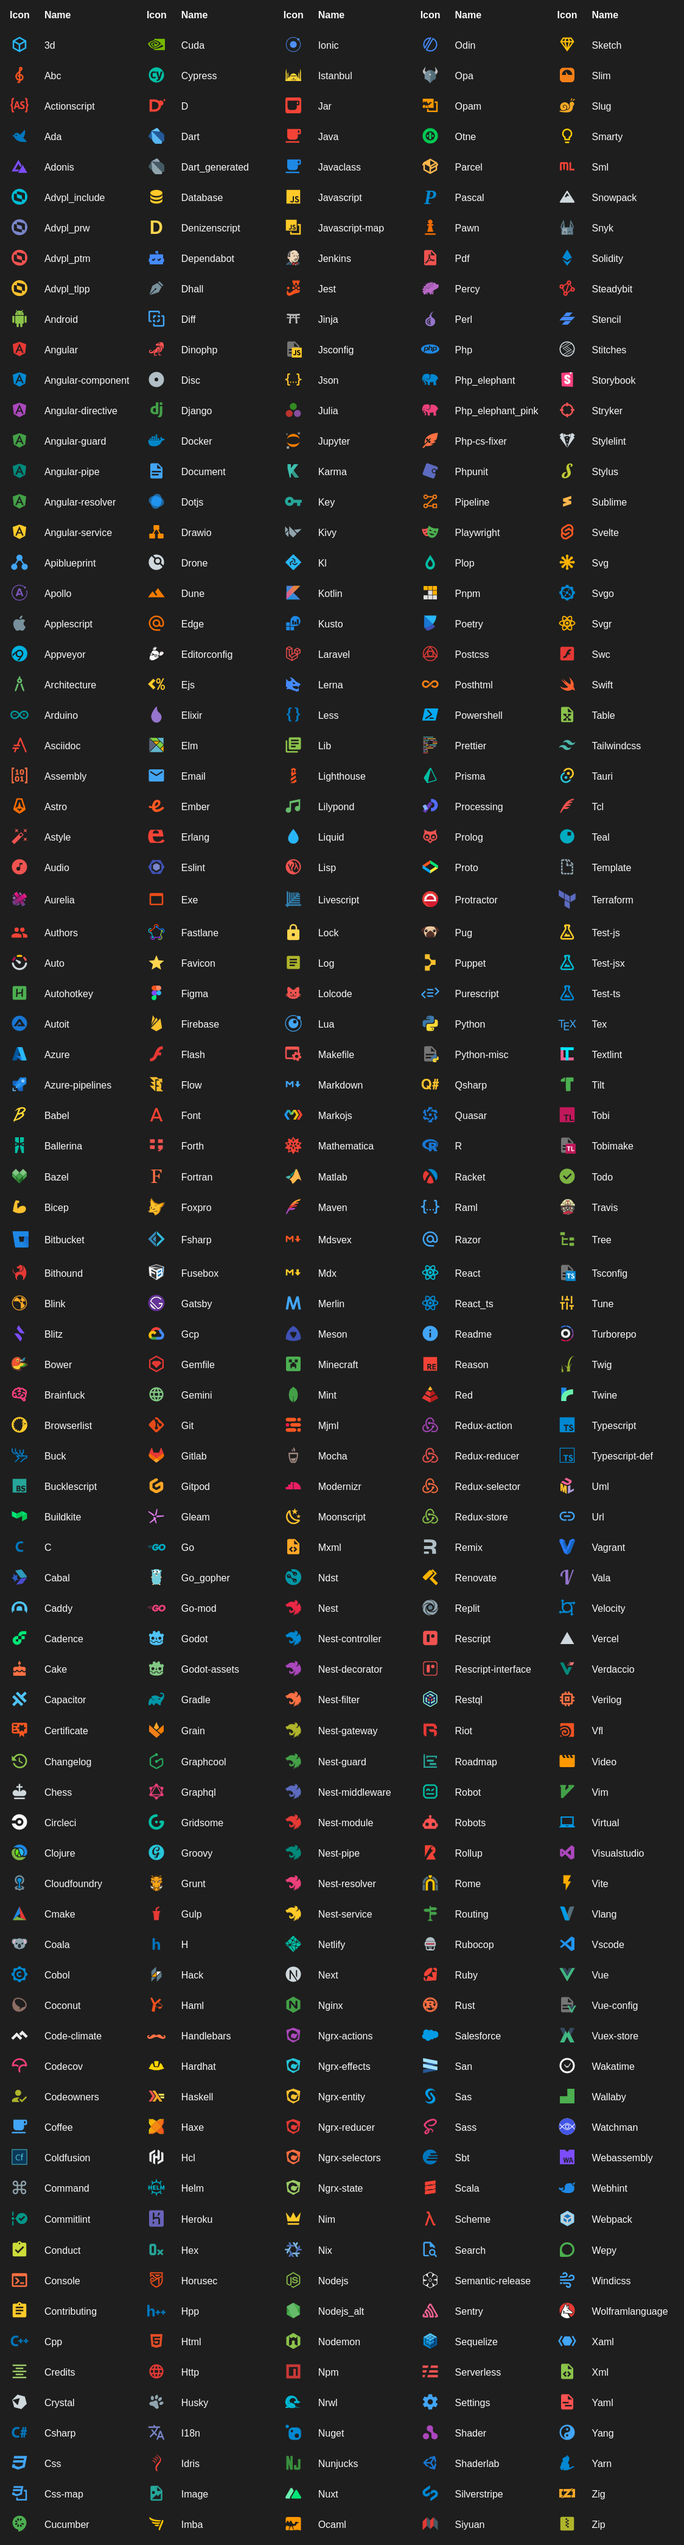
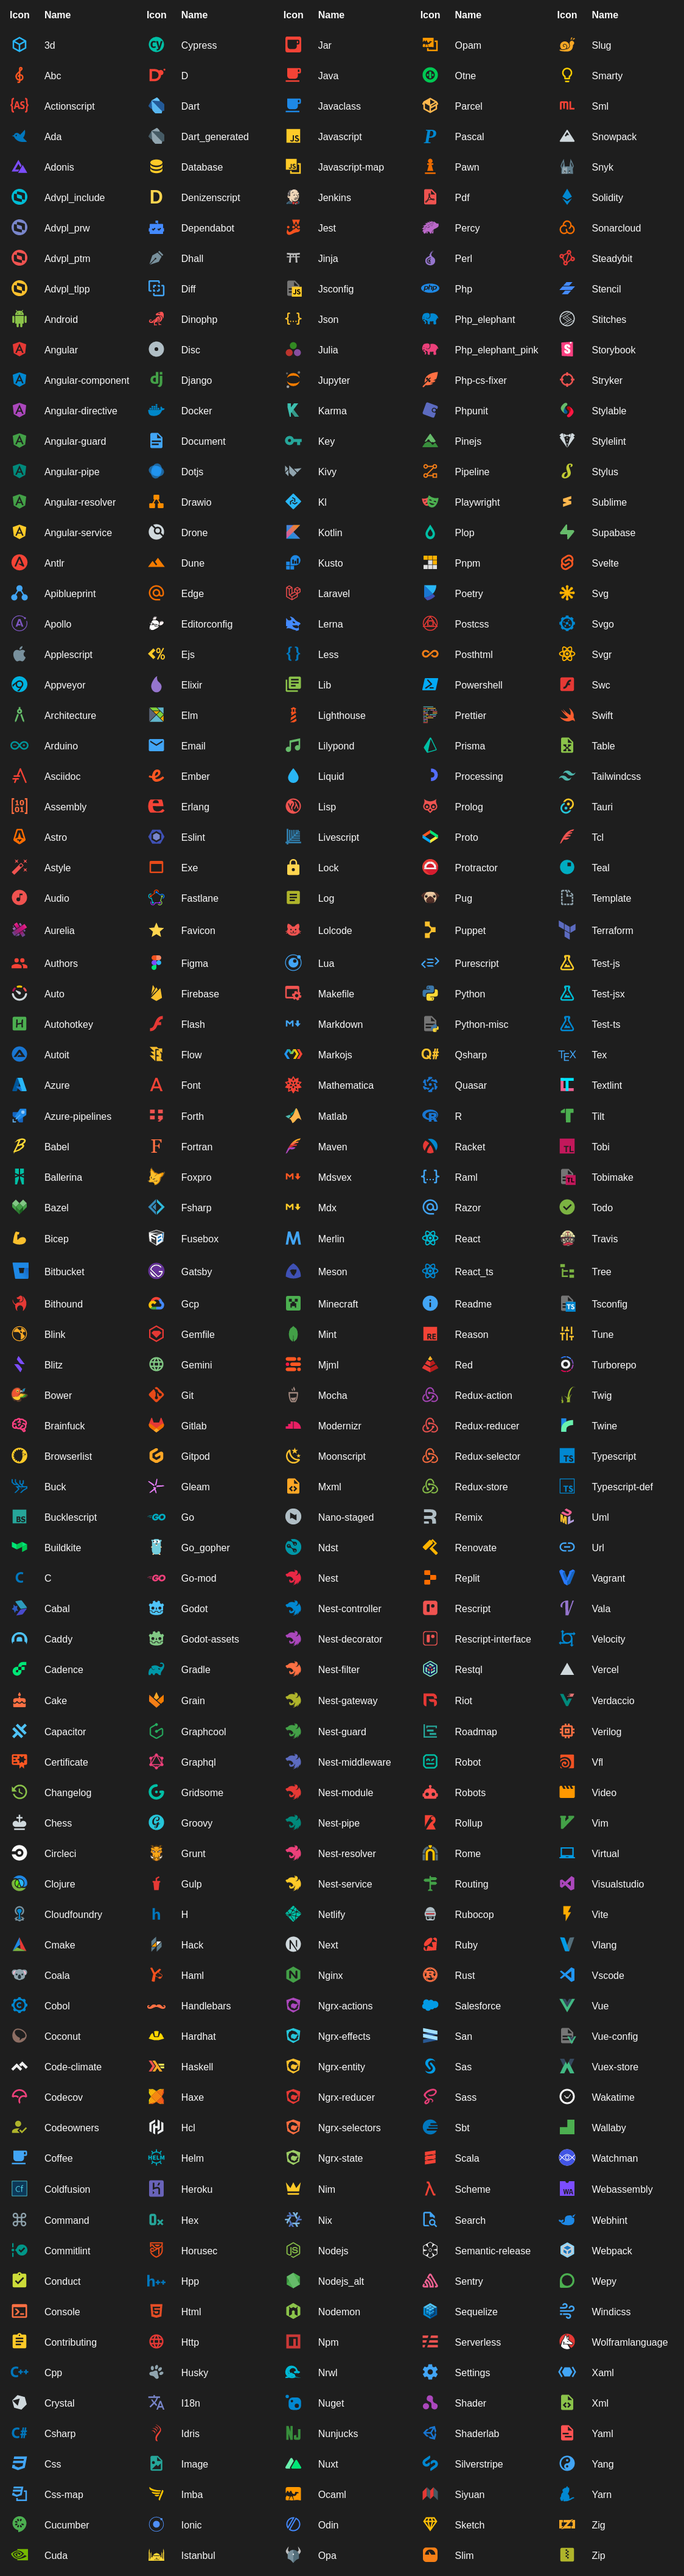
Release 4.22.0

diff --git a/CHANGELOG.md b/CHANGELOG.md
@@ -3,6 +3,40 @@
  All notable changes to this project will be documented in this file. Dates are displayed in UTC.
 
  
+#### [v4.22.0](https://github.com/PKief/vscode-material-icon-theme/compare/v4.21.0...v4.22.0) 
+
+> November 5, 2022 
+
+- Update import in scripts [`66d9e48`](https://github.com/PKief/vscode-material-icon-theme/commit/66d9e48)
+- feat: add support for Sonarcloud [`#1677`](https://github.com/PKief/vscode-material-icon-theme/pull/1677)
+- Update build script [`8b24b74`](https://github.com/PKief/vscode-material-icon-theme/commit/8b24b74)
+- docs: add note to saturation section re: Toggle Grayscale setting [`#1747`](https://github.com/PKief/vscode-material-icon-theme/pull/1747)
+- Change explanation of `languageId` values [`#1753`](https://github.com/PKief/vscode-material-icon-theme/pull/1753)
+- rm unlinked "official icons" list entry [`#1752`](https://github.com/PKief/vscode-material-icon-theme/pull/1752)
+- harmonise/clarify wording of Toggle Explorer Arrows [`#1749`](https://github.com/PKief/vscode-material-icon-theme/pull/1749)
+- change error messages for Opacity and Saturation (value should be float) [`#1746`](https://github.com/PKief/vscode-material-icon-theme/pull/1746)
+- feat: decorators folder [`#1671`](https://github.com/PKief/vscode-material-icon-theme/pull/1671)
+- feat: add stylable icon [`#1724`](https://github.com/PKief/vscode-material-icon-theme/pull/1724)
+- feat: supabase [`#1516`](https://github.com/PKief/vscode-material-icon-theme/pull/1516)
+- Add proto folder icon association [`#1751`](https://github.com/PKief/vscode-material-icon-theme/pull/1751)
+- Optimize SVG icons [`#1741`](https://github.com/PKief/vscode-material-icon-theme/pull/1741)
+- Remove welcome and update messages [`#1740`](https://github.com/PKief/vscode-material-icon-theme/pull/1740)
+- feat(dependabot): Add missing filename dependabot.yaml [`#1615`](https://github.com/PKief/vscode-material-icon-theme/pull/1615)
+- Add missing `,` to `vue-config` fileNames [`#1743`](https://github.com/PKief/vscode-material-icon-theme/pull/1743)
+- Add `volar.config.js` to `vue-config` fileNames [`#1742`](https://github.com/PKief/vscode-material-icon-theme/pull/1742)
+- Associate `.mcpack` and `.mcaddon` files with Minecraft file icon [`#1734`](https://github.com/PKief/vscode-material-icon-theme/pull/1734)
+- Add rollup .mjs config file support [`#1733`](https://github.com/PKief/vscode-material-icon-theme/pull/1733)
+- Pine script file icon [`#1725`](https://github.com/PKief/vscode-material-icon-theme/pull/1725)
+- feat: enhance svgo icon support [`#1730`](https://github.com/PKief/vscode-material-icon-theme/pull/1730)
+- feat: add nano-staged icon [`#1722`](https://github.com/PKief/vscode-material-icon-theme/pull/1722)
+- Update replit.svg [`#1728`](https://github.com/PKief/vscode-material-icon-theme/pull/1728)
+- Add tsconfig file names [`0eba308`](https://github.com/PKief/vscode-material-icon-theme/commit/0eba308)
+- Update drone light icon [`2ad273e`](https://github.com/PKief/vscode-material-icon-theme/commit/2ad273e)
+- Update antrl icon [`93da3f9`](https://github.com/PKief/vscode-material-icon-theme/commit/93da3f9)
+- [Icon Request] Antlr4's grammar files [`#1711`](https://github.com/PKief/vscode-material-icon-theme/pull/1711)
+- Add browser folder icon association [`0ddc6f4`](https://github.com/PKief/vscode-material-icon-theme/commit/0ddc6f4)
+- Add .git-blame-ignore icon association [`14afac1`](https://github.com/PKief/vscode-material-icon-theme/commit/14afac1)
+ 
 #### [v4.21.0](https://github.com/PKief/vscode-material-icon-theme/compare/v4.20.0...v4.21.0) 
 
 > October 7, 2022 
